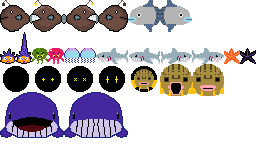
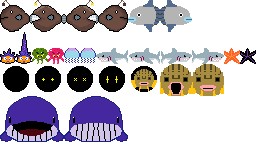
Update Whale

Changed region(s): [[0.0, 0.5625, 0.5, 0.9062]]

diff --git a/nomal_stage1/main_normal_stage1.js b/nomal_stage1/main_normal_stage1.js
@@ -69,6 +69,9 @@ let field = new Field();
 //落単くんクラス作成
 let rakutankun = new Rakutankun(128, 32);
 
+//クジラクラス作成
+let whale = new Whale(31, 3948);
+
 //ゲームオーバーなら立てるフラグ
 //hitPointが0になるか，画面から出ると立つ
 let isGameOver = false;
@@ -178,8 +181,6 @@ enemy_array.push(new Kurage(Math.random() * (224 - 16) + 16, 3900, 0));
 enemy_array.push(new Kurage(Math.random() * (224 - 16) + 16, 3900, 0));
 enemy_array.push(new Kurage(Math.random() * (224 - 16) + 16, 3900, 0));
 
-//クジラのインスタンス作成
-enemy_array.push(new Whale(88, 4035, 0));
 /****************** ここを編集！ ↑ *******************/
 
 
@@ -253,6 +254,35 @@ function showDialog(url, message){
 /*******************ここを編集 ********************************/
 
 
+/*******************ここを編集 ********************************/
+//コース画面からステージ選択画面に戻るときにアニメーションがないので改善する
+
+//画面遷移のアニメーション
+function startSlideAnimation(url){
+    const overlay = document.getElementById('overlay');
+    overlay.classList.add('active');
+    setTimeout(() => {
+        window.location.href = url;
+    }, 3000);   //次画面への待ち時間3秒
+}
+
+//ダイアログを表示させる
+function goToItemShap(url, message){
+    const modal = document.getElementById('customModal');
+    const modalMessage = document.getElementById('modalMessage');
+    const modalOK = document.getElementById('modalOK');
+
+    modalMessage.textContent = message;
+    modal.style.display = 'block';
+
+    modalOK.onclick = () => {
+        modal.style.display = 'none';
+        this.startSlideAnimation(url);
+    }
+}
+/*******************ここを編集 ********************************/
+
+
 
 
 
@@ -260,6 +290,8 @@ function showDialog(url, message){
 function update()
 {
     if(!isStart) return;
+
+    if(isGameOver) return;
 
     //フィールドの更新
     field.update();
@@ -281,6 +313,9 @@ function update()
     item_array.forEach(Item => {
         if (isInCamera(Item)) Item.update();
     });
+
+    //クジラの更新
+    if(isInCamera(whale)) whale.update();
 
     // //アイテム獲得（削除）
     // //isGetItemがtrueのときに削除する
@@ -313,6 +348,10 @@ function update()
         showDialog("rakutankaihi.html", "Game Over!\n Back Home...\n");
     }
     /*******************ここを編集 ********************************/
+
+    if(whale.isToNext){
+        goToItemShap("rakutankaihi.html", "Go to Item Shop.\n");
+    }
     
     
 }
@@ -346,6 +385,9 @@ function draw()
     item_array.forEach(Item => {
         if (isInCamera(Item)) Item.draw();
     });
+
+    //クジラの描画
+    if(isInCamera(whale)) whale.draw();
 
     //パンチの描画
     panchi_array.forEach(Panchi => Panchi.draw());

diff --git a/nomal_stage1/whale.js b/nomal_stage1/whale.js
@@ -1,0 +1,47 @@
+//
+// クジラのクラス
+//
+
+class Whale
+{
+    constructor(x, y){
+        this.x = x;
+        this.y = y;
+        this.width = 64;
+        this.height = 64;
+        this.type = 'Whale';
+        this.exp = 0;
+        this.ox = this.x + 96;
+        this.oy = this.y + 96;
+        this.count = 0;
+
+        //最大まで拡大されると立つフラグ→クジラの口が閉まる
+        this.isEat = false;
+
+        //このフラグがたつ＝らくたん君が消える
+        this.isToNext = false;
+    }
+
+    update(){
+        if(this.count < 96){
+            this.ox--;
+            this.oy--;
+            this.count++;
+        }
+
+        if(this.count >= 96) this.isEat = true;
+    }
+
+    //だんだん大きくなって最後口を閉じると同時にらくたん君が消える
+    draw(){
+        if(!this.isEat){
+            vcon.drawImage(png_enemy, 0, 96, this.width, this.height, this.ox, this.oy - field.scy, this.count * 2, this.count * 2);
+        }
+
+        if(this.isEat){
+            vcon.drawImage(png_enemy, 64, 96, this.width, this.height, this.ox, this.oy - field.scy, this.count * 2, this.count * 2);
+            this.isToNext = true;
+        }
+    }
+
+}

diff --git a/nomal_stage1/rakutankun.js b/nomal_stage1/rakutankun.js
@@ -66,7 +66,7 @@ class Rakutankun
     //縦方向の移動
     updateSwim_y(){
         if(keyboard.Down){
-            this.y += 2;
+            this.y += 10;
         }
     }
 
@@ -160,8 +160,6 @@ class Rakutankun
                     case 'Juice': Item.isJuice = true
                     break;
                 }
-                console.log("isGetItem = ", Item.isGetItem);
-                console.log("flag = ", Item.isMakura);
             }
         });
 
@@ -192,7 +190,7 @@ class Rakutankun
             isdraw = this.animationDamage();
         }
 
-        if(isdraw) vcon.drawImage(png_rakutankun, 32, 32, 16, 32, camera_x, camera_y, 16, 32);
+        if(isdraw && !whale.isToNext) vcon.drawImage(png_rakutankun, 32, 32, 16, 32, camera_x, camera_y, 16, 32);
 
     }
 }

diff --git a/nomal_stage1/enemy.js b/nomal_stage1/enemy.js
@@ -267,30 +267,3 @@ class Utsubo extends Enemy
         super.draw();
     }
 }
-
-class Whale extends Enemy
-{
-    constructor(x, y, direction){
-        super(x, y, direction);
-        this.width = 64;
-        this.height = 64;
-        this.type = 'Whale';
-        this.now = 0;
-    }
-
-    update(){
-        this.now++;
-    }
-
-    //だんだん大きくなって最後口を閉じると同時にらくたん君が消える
-    draw(){
-        let px = this.x - (this.now >> 4);
-        let py = this.y - field.scy - (this.now >> 4);
-        let size_x = (this.width >> 4) << (this.now >> 4);
-        let size_y = (this.height >> 4) << (this.now >> 4);
-
-        vcon.drawImage(png_enemy, 0, 96, this.width, this.height, px, py, size_x, size_y);
-
-    }
-
-}

diff --git a/nomal_stage1/normal_stage1.html b/nomal_stage1/normal_stage1.html
@@ -29,6 +29,7 @@
 <script src="stage1_map.js"></script>
 <script src="item.js"></script>
 <script src="hp.js"></script>
+<script src="whale.js"></script>
 <script src="rakutankun.js"></script>
 <script src="enemy.js"></script>
 <script src="main_normal_stage1.js"></script>
